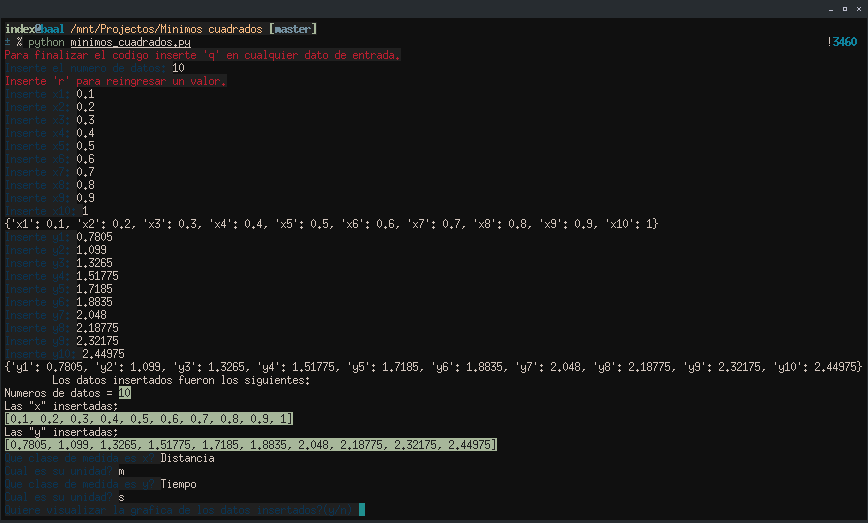
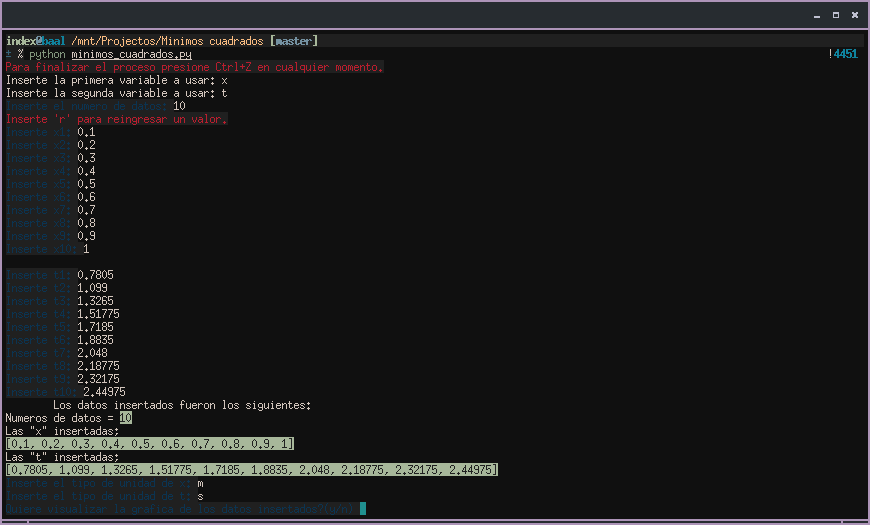
...

Changed region(s): [[0.0, 0.0, 1.0, 1.0], [0.8399, 0.673, 0.871, 0.7036], [0.7465, 0.673, 0.7776, 0.7036]]

diff --git a/README.md b/README.md
@@ -19,11 +19,11 @@ http://matplotlib.org/users/usetex.html
 
 `python minimos_cuadrados.py`
 
-2.- Insertar el numero de datos
+2.- Insertar los tipos de variables y el numero de datos
 
 ![ScreenShot](https://raw.github.com/index-0/Regresion/master/Images/1.png)
 
-3.- Ingresar los datos
+3.- Ingresar los datos y la unidad correspondiente a las variables
 
 | Distancia             | Tiempo                     |
 |-----------------------|----------------------------|
@@ -40,19 +40,23 @@ http://matplotlib.org/users/usetex.html
 
 ![ScreenShot](https://raw.github.com/index-0/Regresion/master/Images/2.png)
 
-4.- Visualizar la grafica (Opcional)
+4.- Visualizar la grafica de los datos (Opcional)
 
 ![ScreenShot](https://raw.github.com/index-0/Regresion/master/Images/figure_1.png)
 
-5.- Decidir la ecuacion que desee (En este caso usaremos 'y' debido a que queremos obtener x(t))
+5.- Decidir la ecuacion que desee
 
 ![ScreenShot](https://raw.github.com/index-0/Regresion/master/Images/3.png)
 
-6.- Visualizar la grafica (Opcional)
+6.- Visualizar la grafica de la ecuacion obtenida (Opcional)
 
 ![ScreenShot](https://raw.github.com/index-0/Regresion/master/Images/figure_2.png)
 
-# Practica
+7.- Se guardara un archivo .csv que contiene la hoja de calculos
+
+![ScreenShot](https://raw.github.com/index-0/Regresion/master/Images/4.png)
+
+# Acerca De La Practica
 
 La practica constaba en un riel inclinado con una longuitud de 1.5 m, con uno de los extremos a una altura de 14.8 cm y el otro extremo a una altura de 19.4 cm.
 
